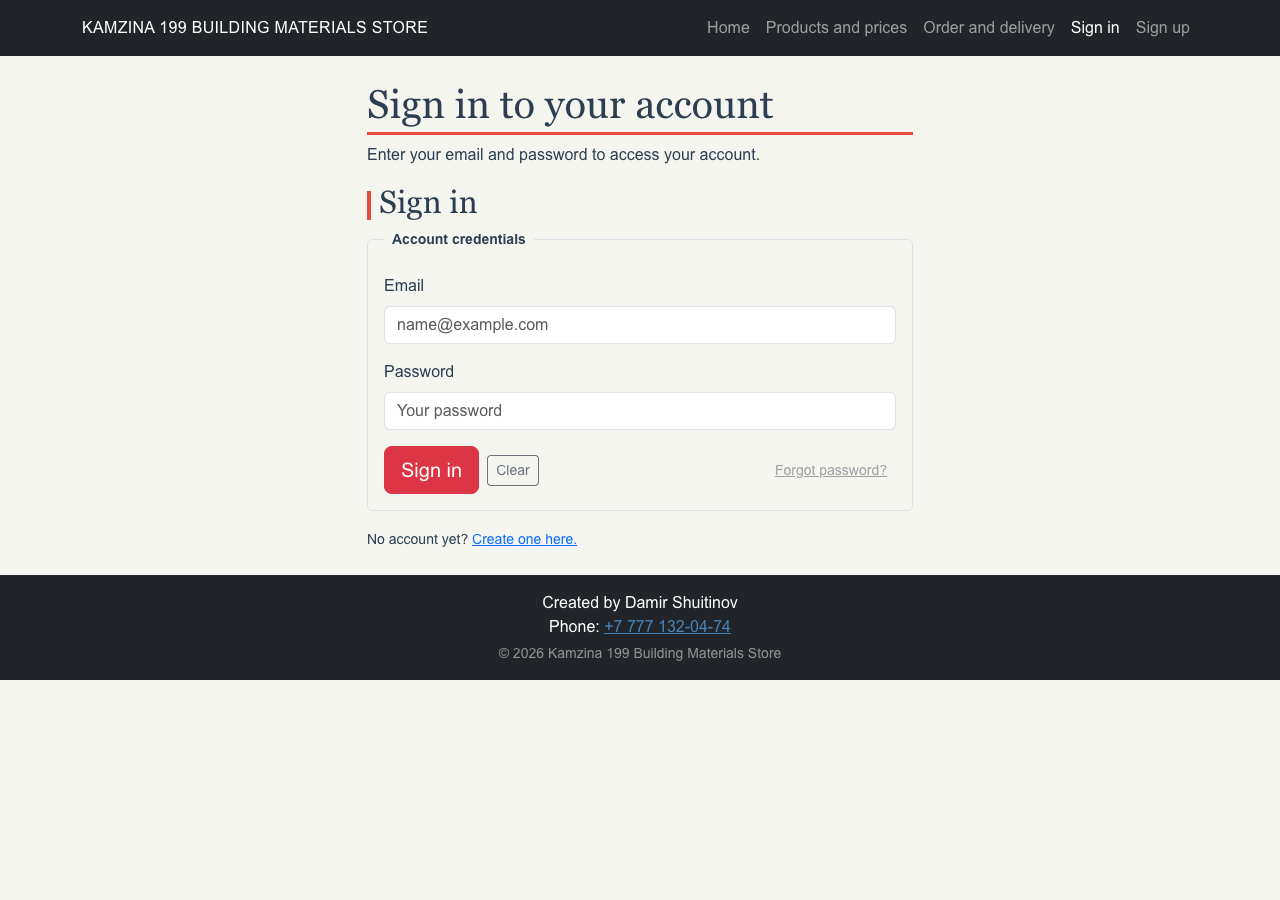
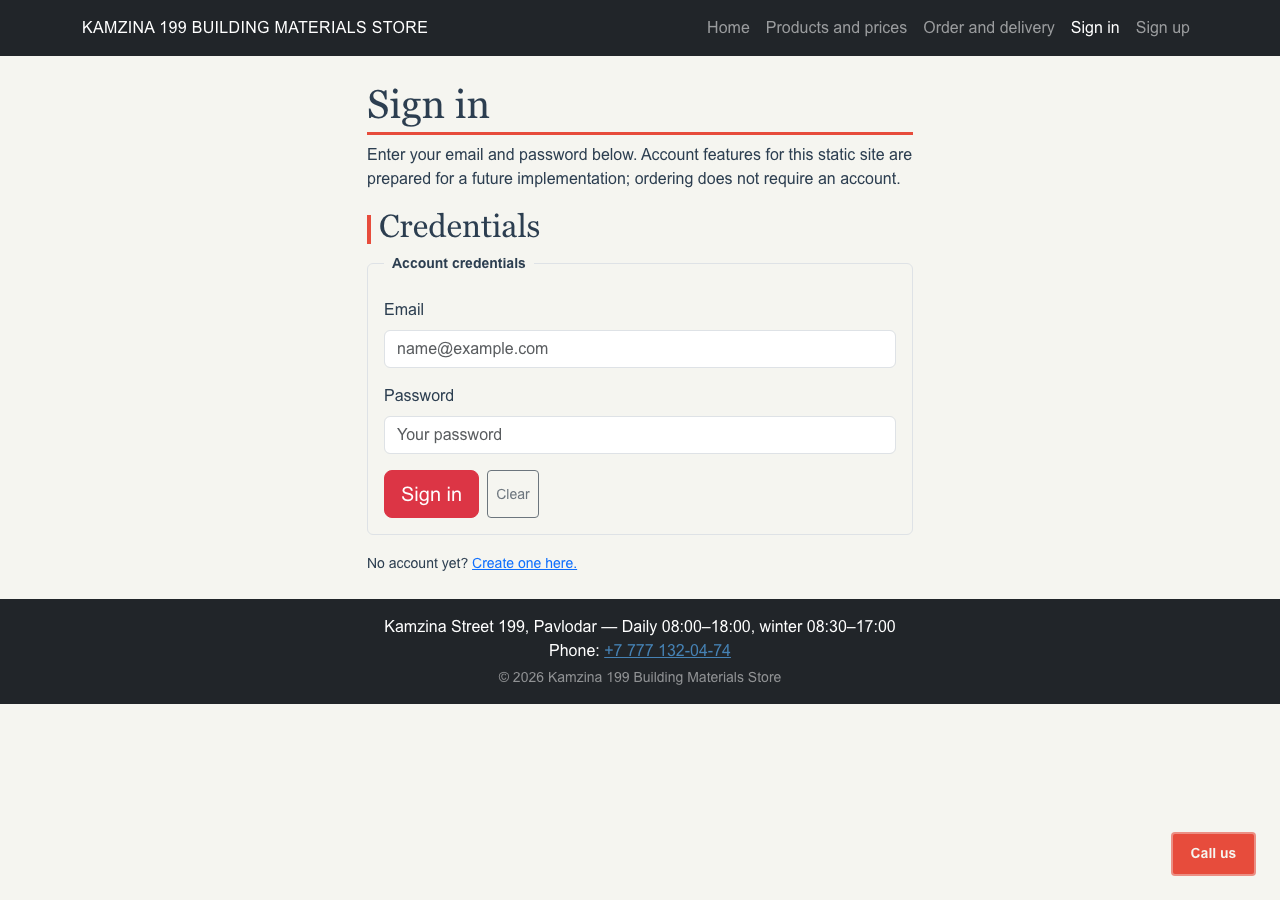
docs: add user journeys and final responsive screenshots

Changed region(s): [[0.0, 0.0933, 1.0, 0.8089], [0.9062, 0.9022, 1.0, 0.9956], [0.625, 0.4978, 0.6875, 0.5289]]

diff --git a/README.md b/README.md
@@ -1,43 +1,108 @@
 # Kamzina 199 Building Materials Store
 
-Assignment 3 website for a real building materials store at 199 Kamzina Street, Pavlodar. The site migrates the Assignment 2 custom-CSS layout to Bootstrap 5.3.3, keeping the same content and five-page structure.
+diMidterm project website for a real building materials store at 199 Kamzina Street, Pavlodar.
+Built with Bootstrap 5.3.3 and a thin custom branding stylesheet.
 
 **Bootstrap version:** 5.3.3 (CDN: jsDelivr)
 
 ## Open the site
 
-Open `index.html` directly in a browser. Use the navigation menu to move between all five pages.
+Open `index.html` directly in a browser. Use the navigation menu to move between pages.
+No build step or server is required.
 
-## What changed in Assignment 3
+## Pages
 
-- Bootstrap 5.3.3 CDN links added to all five pages
-- Custom flexbox/grid navbar replaced with Bootstrap `navbar-expand-md` (collapses at < 768 px)
-- `.page-main` and `.products-main` CSS Grid layouts replaced with Bootstrap `.container`, `.row`, and `.col-*`
-- Products table converted to Bootstrap `table-bordered table-striped table-hover` with `table-dark` thead and `table-responsive` wrapper
-- Choosing-materials article wrapped in a Bootstrap `.card.shadow-sm` component
-- Product photos placed in a nested `.row.g-3` with `.col-md-6` columns
-- Form inputs converted to `form-control`, selects to `form-select`, radios/checkboxes to `form-check`
-- Buttons converted to `btn btn-danger` and `btn btn-outline-secondary`
-- `base.css` trimmed from 482 lines to 89 (branding only); `damir.css` reduced to a 1-line comment
-- No inline styles or internal `<style>` blocks remain in any page
-- `colophon.html` removed; `signin.html` and `signup.html` added
+- `index.html` — home page: store overview, services, visit information
+- `products.html` — product catalogue with prices, Bootstrap table and card
+- `order.html` — order and delivery request form with product selection, delivery address, and on-page summary
+- `signin.html` — sign-in interface (account features prepared for future implementation)
+- `signup.html` — registration interface (account features prepared for future implementation)
 
-**Note:** `signup.html` was created as a new page for Assignment 3 and was not part of Assignments 1 or 2.
+## Screenshots
 
-## Repository contents
+### Home page
 
-- `index.html` — home and visit information
-- `products.html` — product catalogue, prices, Bootstrap table and card
-- `order.html` — order and delivery form with Bootstrap form classes
-- `signin.html` — sign-in form with Bootstrap form classes
-- `signup.html` — registration form with Bootstrap form classes
-- `css/base.css` — branding stylesheet (CSS custom properties, typography, positioning, colours)
-- `css/damir.css` — placeholder (consolidated into base.css for Assignment 3)
-- `css-removal-list.md` — table mapping every removed CSS rule to its Bootstrap replacement
-- `images/` — real shop photographs taken by the student and retrieved from the business's 2GIS gallery
-- `sketches/` — design sketches made before writing CSS
-- `screenshots/` — responsive screenshots at 375 px, 768 px and desktop width for four pages
-- `report/assignment-1-report.pdf` — Task A and Task B report
-- `tag-checklist.md` — HTML tag evidence (Assignment 1, updated for Assignment 3 page set)
-- `css-checklist.md` — CSS technique evidence (Assignment 2, updated for Assignment 3 Bootstrap migration)
-- `ai-log.md` — questions asked to AI during development (items 26–35 cover Bootstrap)
+| Mobile (375 px) | Desktop (1280 px) |
+|---|---|
+| ![Home — mobile](screenshots/index-375.png) | ![Home — desktop](screenshots/index-desktop.png) |
+
+### Products and prices
+
+| Mobile (375 px) | Desktop (1280 px) |
+|---|---|
+| ![Products — mobile](screenshots/products-375.png) | ![Products — desktop](screenshots/products-desktop.png) |
+
+### Order and delivery
+
+| Mobile (375 px) | Desktop (1280 px) |
+|---|---|
+| ![Order — mobile](screenshots/order-375.png) | ![Order — desktop](screenshots/order-desktop.png) |
+
+### Sign in / Sign up
+
+| Sign in — mobile | Sign in — desktop | Sign up — mobile | Sign up — desktop |
+|---|---|---|---|
+| ![Sign in — mobile](screenshots/signin-375.png) | ![Sign in — desktop](screenshots/signin-desktop.png) | ![Sign up — mobile](screenshots/signup-375.png) | ![Sign up — desktop](screenshots/signup-desktop.png) |
+
+## Three visitor journeys
+
+### 1. Browse products and place an order
+
+**Start:** Open `index.html`.  
+**Steps:**  
+1. Read the store description and click **Products and prices** in the navigation.  
+2. Review the product table (catalogue items with units and prices).  
+3. Click **Place an order** in the "Choosing materials" card.  
+4. On `order.html`, fill in your name, email, phone and preferred date.  
+5. Select a product from the first product row; the unit is shown in the option label.  
+6. Enter a quantity. Optionally add a second product.  
+7. Choose **Collect from the store** or **Delivery within Pavlodar**.  
+8. If delivery: fill in the street address block.  
+9. Click **Submit request**.  
+
+**End:** The order request summary section below the form shows the prepared result area.
+An on-page confirmation message appears (requires JavaScript to populate).
+
+---
+
+### 2. Request delivery for heavy materials
+
+**Start:** Open `order.html` directly or via navigation.  
+**Steps:**  
+1. Fill in customer details (name, email, phone, preferred date).  
+2. Select **Cement M400 — bag, 50 kg — 2,260 ₸** from the product list and enter quantity.  
+3. Select **Delivery within Pavlodar** radio button.  
+4. Fill in the delivery address block (street, entrance, on-site contact if needed).  
+5. Add any extra instructions in the notes field.  
+6. Click **Submit request**.  
+
+**End:** The on-page summary section displays the prepared result layout. The delivery fee
+note explains it is confirmed separately after the request is received.
+
+---
+
+### 3. Browse the store, check hours, and call directly
+
+**Start:** Open `index.html`.  
+**Steps:**  
+1. Read the "What the shop offers" section.  
+2. Follow the same-page link to **visit information** (the `#visit` anchor).  
+3. Note the opening hours and address: Kamzina Street 199, daily 08:00–18:00.  
+4. Click the **Call us** button fixed in the bottom-right corner (or tap the telephone link).  
+
+**End:** The phone app opens with `+7 777 132-04-74` ready to dial.
+
+---
+
+## Repository structure
+
+- `css/base.css` — branding stylesheet: custom properties, typography, positioning, colour, CSS-only nav toggle, and prepared JavaScript state targets
+- `css/damir.css` — placeholder (consolidated into base.css)
+- `images/` — store photographs
+- `screenshots/` — responsive screenshots at 375 px, 768 px and desktop width
+- `report/` — assignment reports
+- `tag-checklist.md` — HTML tag evidence
+- `css-checklist.md` — CSS technique evidence
+- `css-removal-list.md` — Bootstrap migration map
+- `ai-log.md` — AI assistance log
+- `validation-results.txt` — W3C validation record (rerun after final edits)
